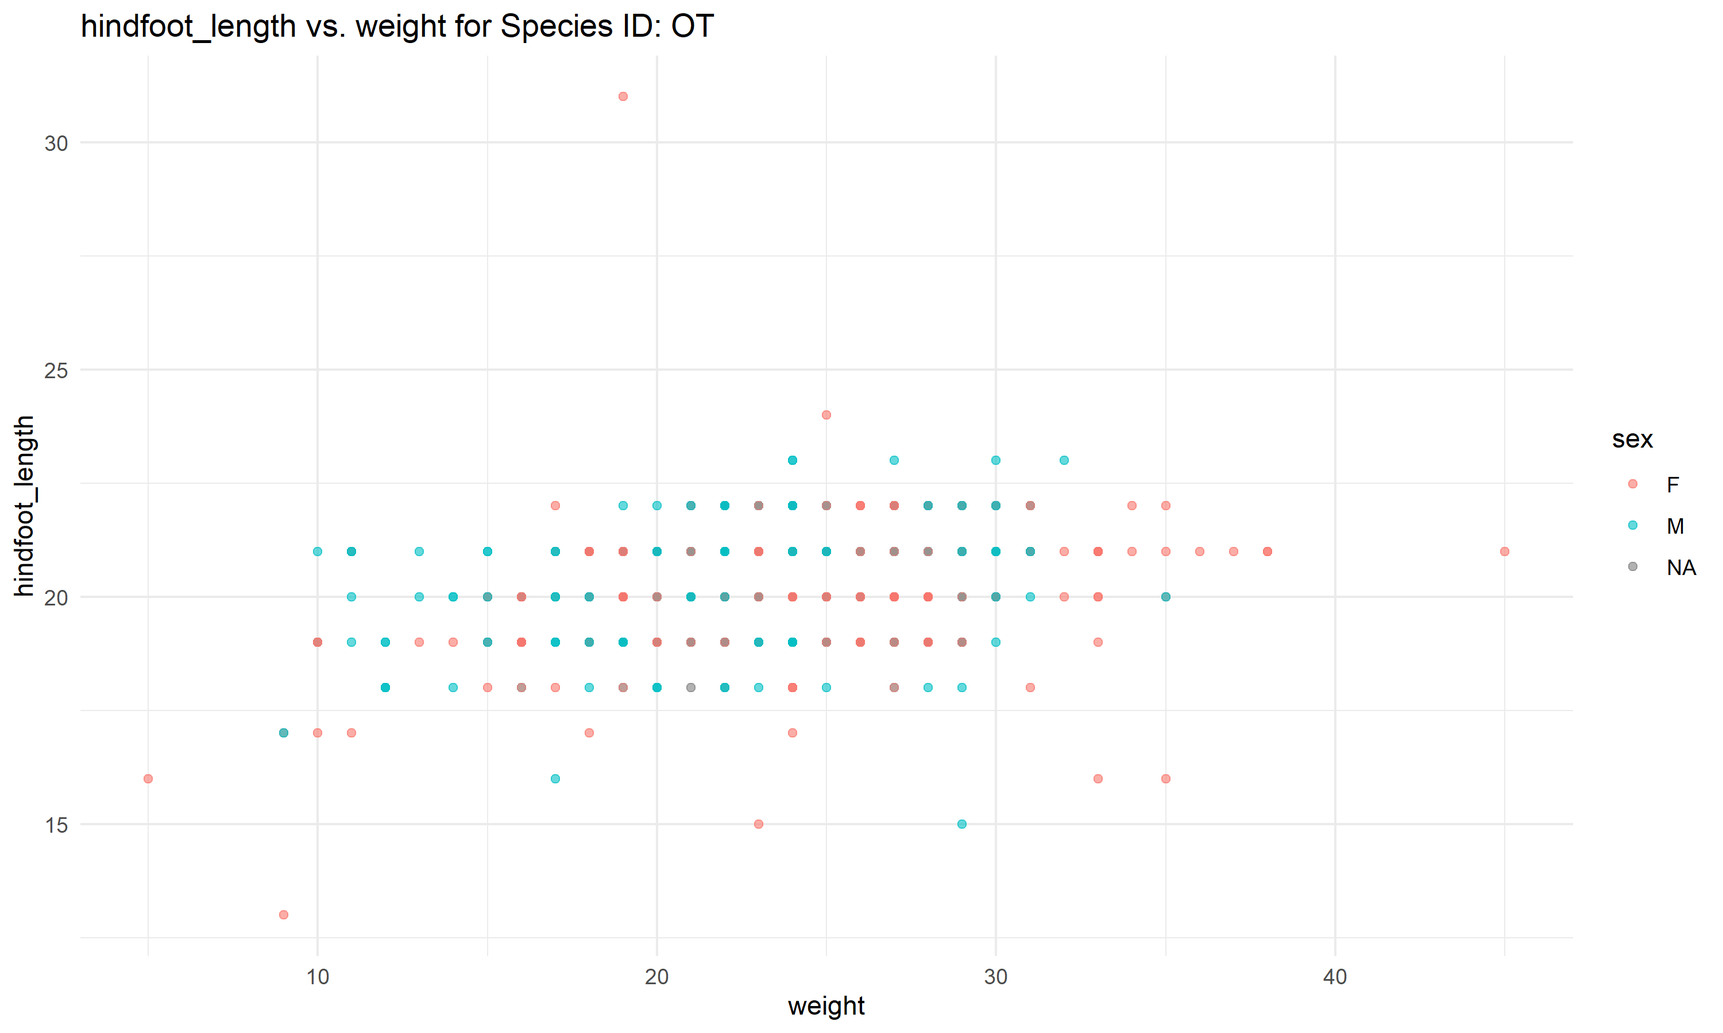
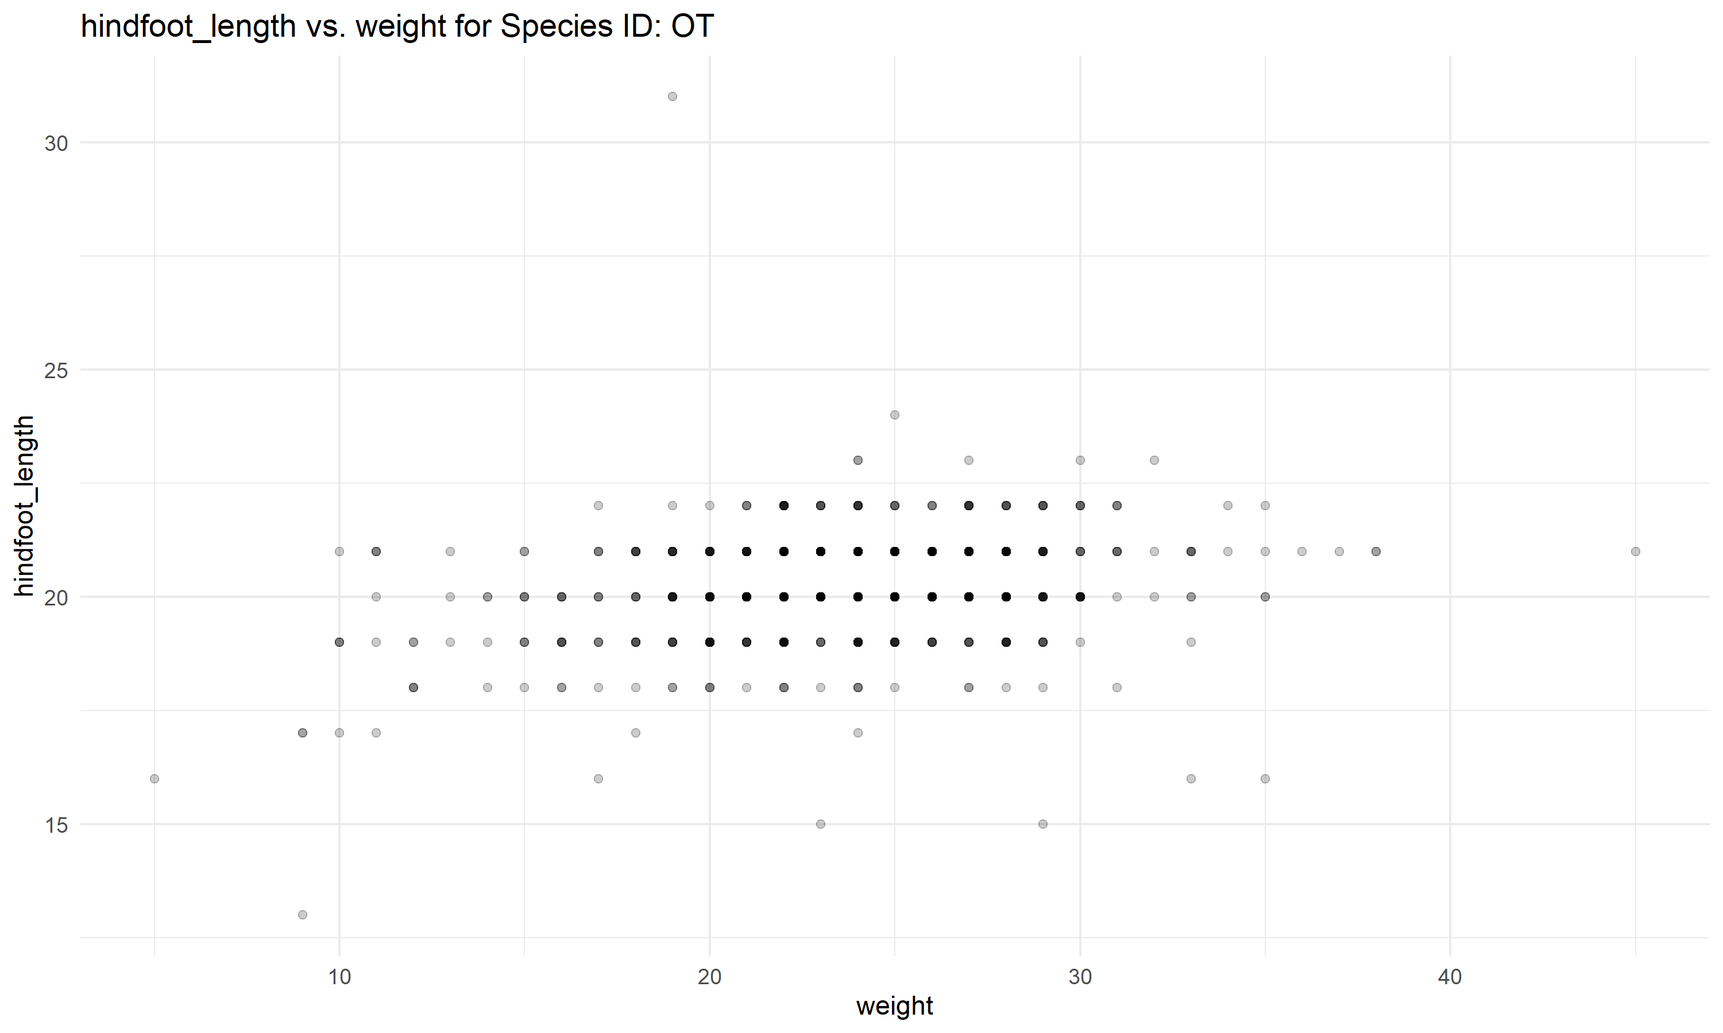
Tweak plots, add boxplot

diff --git a/docs/03_code.html b/docs/03_code.html
@@ -224,25 +224,66 @@ pre > code.sourceCode > span > a:first-child::before { text-decoration: underlin
 </div>
 <p>Let’s read in a dataset split into separate files. Instead of reading in each file separately, we can use <code>readr::read_csv()</code> to read them all in at once, bind them together into a single dataframe, and add a new column containing the filename of the data source. The dataset we’re working with contains measurements taken from mammals captured in the Chihuahuan desert. It is split into 4 separate <code>.csv</code> files based on time periods the measurements were recorded within.</p>
 <div class="cell">
-<div class="sourceCode cell-code" id="cb2"><pre class="sourceCode r code-with-copy"><code class="sourceCode r"><span id="cb2-1"><a href="#cb2-1" aria-hidden="true" tabindex="-1"></a>files <span class="ot">&lt;-</span> <span class="fu">list.files</span>(<span class="at">path =</span> <span class="st">"data_raw"</span>, <span class="at">pattern =</span> <span class="st">"</span><span class="sc">\\</span><span class="st">.csv"</span>, <span class="at">full.names =</span> <span class="cn">TRUE</span>)</span>
+<div class="sourceCode cell-code" id="cb2"><pre class="sourceCode r code-with-copy"><code class="sourceCode r"><span id="cb2-1"><a href="#cb2-1" aria-hidden="true" tabindex="-1"></a><span class="co"># Combine data from different collection periods</span></span>
 <span id="cb2-2"><a href="#cb2-2" aria-hidden="true" tabindex="-1"></a></span>
-<span id="cb2-3"><a href="#cb2-3" aria-hidden="true" tabindex="-1"></a>surveys <span class="ot">&lt;-</span> <span class="fu">read_csv</span>(files, <span class="at">id =</span> <span class="st">"source"</span>)</span></code><button title="Copy to Clipboard" class="code-copy-button"><i class="bi"></i></button></pre></div>
+<span id="cb2-3"><a href="#cb2-3" aria-hidden="true" tabindex="-1"></a>files <span class="ot">&lt;-</span> <span class="fu">list.files</span>(<span class="at">path =</span> <span class="st">"data_raw"</span>, </span>
+<span id="cb2-4"><a href="#cb2-4" aria-hidden="true" tabindex="-1"></a>                    <span class="at">pattern =</span> <span class="st">"</span><span class="sc">\\</span><span class="st">.csv"</span>, </span>
+<span id="cb2-5"><a href="#cb2-5" aria-hidden="true" tabindex="-1"></a>                    <span class="at">full.names =</span> <span class="cn">TRUE</span>)</span>
+<span id="cb2-6"><a href="#cb2-6" aria-hidden="true" tabindex="-1"></a></span>
+<span id="cb2-7"><a href="#cb2-7" aria-hidden="true" tabindex="-1"></a>surveys <span class="ot">&lt;-</span> <span class="fu">read_csv</span>(files, <span class="at">id =</span> <span class="st">"source"</span>)</span></code><button title="Copy to Clipboard" class="code-copy-button"><i class="bi"></i></button></pre></div>
 </div>
-<p>Let’s say we wanted to create a separate scatterplot for each species showing hindfoot length vs weight. Even if we’re only interested in species codes with at least 100 valid observations, that’s still 11 plots.</p>
+<p>Let’s take a quick look at the mean <code>hindfoot_length</code> and <code>weight</code> for each species.</p>
 <div class="cell">
-<div class="sourceCode cell-code" id="cb3"><pre class="sourceCode r code-with-copy"><code class="sourceCode r"><span id="cb3-1"><a href="#cb3-1" aria-hidden="true" tabindex="-1"></a>valid_species <span class="ot">&lt;-</span></span>
-<span id="cb3-2"><a href="#cb3-2" aria-hidden="true" tabindex="-1"></a>  surveys <span class="sc">|&gt;</span></span>
-<span id="cb3-3"><a href="#cb3-3" aria-hidden="true" tabindex="-1"></a>  <span class="fu">drop_na</span>(<span class="fu">all_of</span>(<span class="fu">c</span>(<span class="st">"weight"</span>, <span class="st">"hindfoot_length"</span>))) <span class="sc">|&gt;</span> </span>
-<span id="cb3-4"><a href="#cb3-4" aria-hidden="true" tabindex="-1"></a>  <span class="fu">count</span>(species_id) <span class="sc">|&gt;</span> </span>
-<span id="cb3-5"><a href="#cb3-5" aria-hidden="true" tabindex="-1"></a>  <span class="fu">filter</span>(n <span class="sc">&gt;=</span> <span class="dv">100</span>) <span class="sc">|&gt;</span> </span>
-<span id="cb3-6"><a href="#cb3-6" aria-hidden="true" tabindex="-1"></a>  <span class="fu">pull</span>(species_id)</span></code><button title="Copy to Clipboard" class="code-copy-button"><i class="bi"></i></button></pre></div>
+<div class="sourceCode cell-code" id="cb3"><pre class="sourceCode r code-with-copy"><code class="sourceCode r"><span id="cb3-1"><a href="#cb3-1" aria-hidden="true" tabindex="-1"></a>surveys <span class="sc">|&gt;</span> </span>
+<span id="cb3-2"><a href="#cb3-2" aria-hidden="true" tabindex="-1"></a>  <span class="fu">group_by</span>(species_id) <span class="sc">|&gt;</span> </span>
+<span id="cb3-3"><a href="#cb3-3" aria-hidden="true" tabindex="-1"></a>  <span class="fu">summarise</span>(<span class="fu">across</span>(<span class="fu">c</span>(hindfoot_length, weight), mean, <span class="at">na.rm =</span> <span class="cn">TRUE</span>)) <span class="sc">|&gt;</span> </span>
+<span id="cb3-4"><a href="#cb3-4" aria-hidden="true" tabindex="-1"></a>  <span class="fu">na.omit</span>()</span></code><button title="Copy to Clipboard" class="code-copy-button"><i class="bi"></i></button></pre></div>
+<div class="cell-output cell-output-stderr">
+<pre><code>Warning: There was 1 warning in `summarise()`.
+ℹ In argument: `across(c(hindfoot_length, weight), mean, na.rm = TRUE)`.
+ℹ In group 1: `species_id = "AB"`.
+Caused by warning:
+! The `...` argument of `across()` is deprecated as of dplyr 1.1.0.
+Supply arguments directly to `.fns` through an anonymous function instead.
+
+  # Previously
+  across(a:b, mean, na.rm = TRUE)
+
+  # Now
+  across(a:b, \(x) mean(x, na.rm = TRUE))</code></pre>
 </div>
-<p>Rather than write out the same code 15 times, this is a good time to write our own function. If we encapsulate all the plotting steps in a function, we can then use {purrr} to apply the function over the species and create the plots.</p>
+<div class="cell-output cell-output-stdout">
+<pre><code># A tibble: 17 × 3
+   species_id hindfoot_length weight
+   &lt;chr&gt;                &lt;dbl&gt;  &lt;dbl&gt;
+ 1 BA                    13     7   
+ 2 DM                    36.0  42.5 
+ 3 DO                    35.4  48.9 
+ 4 DS                    50.0 120.  
+ 5 NL                    32.4 158.  
+ 6 OL                    20.6  32.6 
+ 7 OT                    20.2  23.8 
+ 8 OX                    19.1  21   
+ 9 PE                    20.2  21.7 
+10 PF                    15.5   7.09
+11 PH                    26.1  30.7 
+12 PM                    20.4  21.6 
+13 PP                    21.7  16.3 
+14 RF                    17.4  13.4 
+15 RM                    16.4  10.3 
+16 SF                    29    54.8 
+17 SH                    28.9  75.0 </code></pre>
+</div>
+</div>
+<p>To understand how <code>hindfoot_length</code> varies based on the plot type the animal was captured in let’s use a boxplot.</p>
 <div class="cell">
-<div class="sourceCode cell-code" id="cb4"><pre class="sourceCode r code-with-copy"><code class="sourceCode r"><span id="cb4-1"><a href="#cb4-1" aria-hidden="true" tabindex="-1"></a><span class="co"># Create an example of a plot</span></span>
-<span id="cb4-2"><a href="#cb4-2" aria-hidden="true" tabindex="-1"></a><span class="fu">ggplot</span>(surveys, <span class="fu">aes</span>(<span class="at">x =</span> weight, <span class="at">y =</span> hindfoot_length, <span class="at">colour =</span> sex)) <span class="sc">+</span></span>
-<span id="cb4-3"><a href="#cb4-3" aria-hidden="true" tabindex="-1"></a>  <span class="fu">geom_point</span>() <span class="sc">+</span></span>
-<span id="cb4-4"><a href="#cb4-4" aria-hidden="true" tabindex="-1"></a>  <span class="fu">theme_minimal</span>()</span></code><button title="Copy to Clipboard" class="code-copy-button"><i class="bi"></i></button></pre></div>
+<div class="sourceCode cell-code" id="cb6"><pre class="sourceCode r code-with-copy"><code class="sourceCode r"><span id="cb6-1"><a href="#cb6-1" aria-hidden="true" tabindex="-1"></a><span class="fu">ggplot</span>(<span class="at">data =</span> surveys, <span class="fu">aes</span>(<span class="at">x =</span> plot_type, <span class="at">y =</span> hindfoot_length)) <span class="sc">+</span></span>
+<span id="cb6-2"><a href="#cb6-2" aria-hidden="true" tabindex="-1"></a>  <span class="fu">geom_boxplot</span>() <span class="sc">+</span></span>
+<span id="cb6-3"><a href="#cb6-3" aria-hidden="true" tabindex="-1"></a>  <span class="fu">theme_bw</span>()</span></code><button title="Copy to Clipboard" class="code-copy-button"><i class="bi"></i></button></pre></div>
+<div class="cell-output cell-output-stderr">
+<pre><code>Warning: Removed 2733 rows containing non-finite outside the scale range
+(`stat_boxplot()`).</code></pre>
+</div>
 <div class="cell-output-display">
 <div>
 <figure class="figure">
@@ -251,34 +292,105 @@ pre > code.sourceCode > span > a:first-child::before { text-decoration: underlin
 </div>
 </div>
 </div>
+<p>Let’s say we wanted to create a separate scatterplot for each species showing hindfoot length vs weight. Even if we’re only interested in species codes with at least 100 valid observations, that’s still 11 plots.</p>
 <div class="cell">
-<div class="sourceCode cell-code" id="cb5"><pre class="sourceCode r code-with-copy"><code class="sourceCode r"><span id="cb5-1"><a href="#cb5-1" aria-hidden="true" tabindex="-1"></a>plot_species <span class="ot">&lt;-</span> <span class="cf">function</span>(data, x_var, y_var, colour, species) {</span>
-<span id="cb5-2"><a href="#cb5-2" aria-hidden="true" tabindex="-1"></a></span>
-<span id="cb5-3"><a href="#cb5-3" aria-hidden="true" tabindex="-1"></a>  filtered_data <span class="ot">&lt;-</span> </span>
-<span id="cb5-4"><a href="#cb5-4" aria-hidden="true" tabindex="-1"></a>    data <span class="sc">|&gt;</span> </span>
-<span id="cb5-5"><a href="#cb5-5" aria-hidden="true" tabindex="-1"></a>    <span class="fu">filter</span>(species_id <span class="sc">==</span> {{ species }})</span>
-<span id="cb5-6"><a href="#cb5-6" aria-hidden="true" tabindex="-1"></a>  </span>
-<span id="cb5-7"><a href="#cb5-7" aria-hidden="true" tabindex="-1"></a>  plot_title <span class="ot">&lt;-</span> <span class="fu">paste0</span>(y_var, <span class="st">" vs. "</span>, x_var, <span class="st">" for Species ID: "</span>, species)</span>
-<span id="cb5-8"><a href="#cb5-8" aria-hidden="true" tabindex="-1"></a>  </span>
-<span id="cb5-9"><a href="#cb5-9" aria-hidden="true" tabindex="-1"></a>  plot <span class="ot">&lt;-</span> </span>
-<span id="cb5-10"><a href="#cb5-10" aria-hidden="true" tabindex="-1"></a>    filtered_data <span class="sc">|&gt;</span> </span>
-<span id="cb5-11"><a href="#cb5-11" aria-hidden="true" tabindex="-1"></a>    <span class="fu">ggplot</span>(<span class="fu">aes</span>(<span class="at">x =</span> .data[[x_var]], <span class="at">y =</span> .data[[y_var]], <span class="at">colour =</span> .data[[colour]])) <span class="sc">+</span></span>
-<span id="cb5-12"><a href="#cb5-12" aria-hidden="true" tabindex="-1"></a>    <span class="fu">geom_point</span>(<span class="at">alpha =</span> <span class="fl">0.6</span>) <span class="sc">+</span></span>
-<span id="cb5-13"><a href="#cb5-13" aria-hidden="true" tabindex="-1"></a>    <span class="fu">theme_minimal</span>() <span class="sc">+</span></span>
-<span id="cb5-14"><a href="#cb5-14" aria-hidden="true" tabindex="-1"></a>    <span class="fu">ggtitle</span>(plot_title)</span>
-<span id="cb5-15"><a href="#cb5-15" aria-hidden="true" tabindex="-1"></a>  </span>
-<span id="cb5-16"><a href="#cb5-16" aria-hidden="true" tabindex="-1"></a>  save_path <span class="ot">&lt;-</span> <span class="fu">paste0</span>(<span class="st">"figures/"</span>, species, <span class="st">"_"</span>, x_var, <span class="st">"_vs_"</span>, y_var, <span class="st">".png"</span>)</span>
-<span id="cb5-17"><a href="#cb5-17" aria-hidden="true" tabindex="-1"></a>  </span>
-<span id="cb5-18"><a href="#cb5-18" aria-hidden="true" tabindex="-1"></a>  <span class="fu">ggsave</span>(save_path, <span class="at">plot =</span> plot, <span class="at">width =</span> <span class="dv">10</span>, <span class="at">height =</span> <span class="dv">6</span>, <span class="at">units =</span> <span class="st">"in"</span>)</span>
-<span id="cb5-19"><a href="#cb5-19" aria-hidden="true" tabindex="-1"></a>}</span>
-<span id="cb5-20"><a href="#cb5-20" aria-hidden="true" tabindex="-1"></a></span>
-<span id="cb5-21"><a href="#cb5-21" aria-hidden="true" tabindex="-1"></a><span class="fu">walk</span>(valid_species, <span class="sc">~</span> <span class="fu">plot_species</span>(</span>
-<span id="cb5-22"><a href="#cb5-22" aria-hidden="true" tabindex="-1"></a>  <span class="at">data =</span> surveys,</span>
-<span id="cb5-23"><a href="#cb5-23" aria-hidden="true" tabindex="-1"></a>  <span class="at">x_var =</span> <span class="st">"weight"</span>,</span>
-<span id="cb5-24"><a href="#cb5-24" aria-hidden="true" tabindex="-1"></a>  <span class="at">y_var =</span> <span class="st">"hindfoot_length"</span>,</span>
-<span id="cb5-25"><a href="#cb5-25" aria-hidden="true" tabindex="-1"></a>  <span class="at">colour =</span> <span class="st">"sex"</span>,</span>
-<span id="cb5-26"><a href="#cb5-26" aria-hidden="true" tabindex="-1"></a>  <span class="at">species =</span> .x </span>
-<span id="cb5-27"><a href="#cb5-27" aria-hidden="true" tabindex="-1"></a>))</span></code><button title="Copy to Clipboard" class="code-copy-button"><i class="bi"></i></button></pre></div>
+<div class="sourceCode cell-code" id="cb8"><pre class="sourceCode r code-with-copy"><code class="sourceCode r"><span id="cb8-1"><a href="#cb8-1" aria-hidden="true" tabindex="-1"></a>valid_species <span class="ot">&lt;-</span></span>
+<span id="cb8-2"><a href="#cb8-2" aria-hidden="true" tabindex="-1"></a>  surveys <span class="sc">|&gt;</span></span>
+<span id="cb8-3"><a href="#cb8-3" aria-hidden="true" tabindex="-1"></a>  <span class="fu">drop_na</span>(<span class="fu">all_of</span>(<span class="fu">c</span>(<span class="st">"weight"</span>, <span class="st">"hindfoot_length"</span>))) <span class="sc">|&gt;</span> </span>
+<span id="cb8-4"><a href="#cb8-4" aria-hidden="true" tabindex="-1"></a>  <span class="fu">count</span>(species_id) <span class="sc">|&gt;</span> </span>
+<span id="cb8-5"><a href="#cb8-5" aria-hidden="true" tabindex="-1"></a>  <span class="fu">filter</span>(n <span class="sc">&gt;=</span> <span class="dv">100</span>) <span class="sc">|&gt;</span> </span>
+<span id="cb8-6"><a href="#cb8-6" aria-hidden="true" tabindex="-1"></a>  <span class="fu">pull</span>(species_id)</span></code><button title="Copy to Clipboard" class="code-copy-button"><i class="bi"></i></button></pre></div>
+</div>
+<p>Let’s first create a basic plot to show what we’re trying to produce.</p>
+<div class="cell">
+<div class="sourceCode cell-code" id="cb9"><pre class="sourceCode r code-with-copy"><code class="sourceCode r"><span id="cb9-1"><a href="#cb9-1" aria-hidden="true" tabindex="-1"></a><span class="co"># Create an example of a plot</span></span>
+<span id="cb9-2"><a href="#cb9-2" aria-hidden="true" tabindex="-1"></a></span>
+<span id="cb9-3"><a href="#cb9-3" aria-hidden="true" tabindex="-1"></a><span class="fu">ggplot</span>(surveys, <span class="fu">aes</span>(<span class="at">x =</span> weight, <span class="at">y =</span> hindfoot_length)) <span class="sc">+</span></span>
+<span id="cb9-4"><a href="#cb9-4" aria-hidden="true" tabindex="-1"></a>  <span class="fu">geom_point</span>(<span class="at">alpha =</span> <span class="fl">0.2</span>) <span class="sc">+</span></span>
+<span id="cb9-5"><a href="#cb9-5" aria-hidden="true" tabindex="-1"></a>  <span class="fu">theme_minimal</span>()</span></code><button title="Copy to Clipboard" class="code-copy-button"><i class="bi"></i></button></pre></div>
+<div class="cell-output-display">
+<div>
+<figure class="figure">
+<p><img src="03_code_files/figure-html/unnamed-chunk-6-1.png" class="img-fluid figure-img" width="672"></p>
+</figure>
+</div>
+</div>
+</div>
+<p>Rather than write out the same code 15 times, this is a good time to write our own function. If we encapsulate all the plotting steps in a function, we can then use {purrr} to apply the function over the species and create the plots.</p>
+<div class="cell">
+<div class="sourceCode cell-code" id="cb10"><pre class="sourceCode r code-with-copy"><code class="sourceCode r"><span id="cb10-1"><a href="#cb10-1" aria-hidden="true" tabindex="-1"></a>plot_species <span class="ot">&lt;-</span> <span class="cf">function</span>(data, x_var, y_var, species) {</span>
+<span id="cb10-2"><a href="#cb10-2" aria-hidden="true" tabindex="-1"></a>  </span>
+<span id="cb10-3"><a href="#cb10-3" aria-hidden="true" tabindex="-1"></a>  <span class="co"># Check that the data contains the species or provide a useful error message</span></span>
+<span id="cb10-4"><a href="#cb10-4" aria-hidden="true" tabindex="-1"></a>  <span class="cf">if</span> (<span class="sc">!</span>(species <span class="sc">%in%</span> data<span class="sc">$</span>species_id)) {</span>
+<span id="cb10-5"><a href="#cb10-5" aria-hidden="true" tabindex="-1"></a>    <span class="fu">stop</span>(<span class="fu">paste0</span>(<span class="st">"Error: Species ID '"</span>, species, <span class="st">"' not found in the dataset."</span>))</span>
+<span id="cb10-6"><a href="#cb10-6" aria-hidden="true" tabindex="-1"></a>  }</span>
+<span id="cb10-7"><a href="#cb10-7" aria-hidden="true" tabindex="-1"></a>  </span>
+<span id="cb10-8"><a href="#cb10-8" aria-hidden="true" tabindex="-1"></a>  <span class="co"># Use .data[[]] so we can pass strings as arguments to use in plot titles and save paths</span></span>
+<span id="cb10-9"><a href="#cb10-9" aria-hidden="true" tabindex="-1"></a>  plots <span class="ot">&lt;-</span> </span>
+<span id="cb10-10"><a href="#cb10-10" aria-hidden="true" tabindex="-1"></a>    data <span class="sc">|&gt;</span> </span>
+<span id="cb10-11"><a href="#cb10-11" aria-hidden="true" tabindex="-1"></a>    <span class="fu">filter</span>(species_id <span class="sc">==</span> .env<span class="sc">$</span>species) <span class="sc">|&gt;</span> </span>
+<span id="cb10-12"><a href="#cb10-12" aria-hidden="true" tabindex="-1"></a>    <span class="fu">ggplot</span>(<span class="fu">aes</span>(<span class="at">x =</span> .data[[x_var]], </span>
+<span id="cb10-13"><a href="#cb10-13" aria-hidden="true" tabindex="-1"></a>               <span class="at">y =</span> .data[[y_var]])) <span class="sc">+</span></span>
+<span id="cb10-14"><a href="#cb10-14" aria-hidden="true" tabindex="-1"></a>    <span class="fu">geom_point</span>(<span class="at">alpha =</span> <span class="fl">0.2</span>) <span class="sc">+</span></span>
+<span id="cb10-15"><a href="#cb10-15" aria-hidden="true" tabindex="-1"></a>    <span class="fu">theme_minimal</span>() <span class="sc">+</span></span>
+<span id="cb10-16"><a href="#cb10-16" aria-hidden="true" tabindex="-1"></a>    <span class="fu">ggtitle</span>(<span class="fu">paste0</span>(y_var, <span class="st">" vs. "</span>, x_var, <span class="st">" for Species ID: "</span>, species))</span>
+<span id="cb10-17"><a href="#cb10-17" aria-hidden="true" tabindex="-1"></a>  </span>
+<span id="cb10-18"><a href="#cb10-18" aria-hidden="true" tabindex="-1"></a>  <span class="fu">ggsave</span>(<span class="fu">paste0</span>(<span class="st">"figures/"</span>, species, <span class="st">"_"</span>, x_var, <span class="st">"_vs_"</span>, y_var, <span class="st">".png"</span>), </span>
+<span id="cb10-19"><a href="#cb10-19" aria-hidden="true" tabindex="-1"></a>         <span class="at">plot =</span> plots, <span class="at">width =</span> <span class="dv">10</span>, <span class="at">height =</span> <span class="dv">6</span>)</span>
+<span id="cb10-20"><a href="#cb10-20" aria-hidden="true" tabindex="-1"></a>}</span>
+<span id="cb10-21"><a href="#cb10-21" aria-hidden="true" tabindex="-1"></a></span>
+<span id="cb10-22"><a href="#cb10-22" aria-hidden="true" tabindex="-1"></a><span class="co"># purrr::walk iterates over valid_species to create and save the plots</span></span>
+<span id="cb10-23"><a href="#cb10-23" aria-hidden="true" tabindex="-1"></a></span>
+<span id="cb10-24"><a href="#cb10-24" aria-hidden="true" tabindex="-1"></a><span class="fu">walk</span>(valid_species, <span class="sc">~</span> <span class="fu">plot_species</span>(</span>
+<span id="cb10-25"><a href="#cb10-25" aria-hidden="true" tabindex="-1"></a>  <span class="at">data =</span> surveys,</span>
+<span id="cb10-26"><a href="#cb10-26" aria-hidden="true" tabindex="-1"></a>  <span class="at">x_var =</span> <span class="st">"weight"</span>,            </span>
+<span id="cb10-27"><a href="#cb10-27" aria-hidden="true" tabindex="-1"></a>  <span class="at">y_var =</span> <span class="st">"hindfoot_length"</span>,   </span>
+<span id="cb10-28"><a href="#cb10-28" aria-hidden="true" tabindex="-1"></a>  <span class="at">species =</span> .x </span>
+<span id="cb10-29"><a href="#cb10-29" aria-hidden="true" tabindex="-1"></a>))</span></code><button title="Copy to Clipboard" class="code-copy-button"><i class="bi"></i></button></pre></div>
+<div class="cell-output cell-output-stderr">
+<pre><code>Warning: Removed 674 rows containing missing values or values outside the scale range
+(`geom_point()`).</code></pre>
+</div>
+<div class="cell-output cell-output-stderr">
+<pre><code>Warning: Removed 153 rows containing missing values or values outside the scale range
+(`geom_point()`).</code></pre>
+</div>
+<div class="cell-output cell-output-stderr">
+<pre><code>Warning: Removed 469 rows containing missing values or values outside the scale range
+(`geom_point()`).</code></pre>
+</div>
+<div class="cell-output cell-output-stderr">
+<pre><code>Warning: Removed 167 rows containing missing values or values outside the scale range
+(`geom_point()`).</code></pre>
+</div>
+<div class="cell-output cell-output-stderr">
+<pre><code>Warning: Removed 87 rows containing missing values or values outside the scale range
+(`geom_point()`).</code></pre>
+</div>
+<div class="cell-output cell-output-stderr">
+<pre><code>Warning: Removed 106 rows containing missing values or values outside the scale range
+(`geom_point()`).</code></pre>
+</div>
+<div class="cell-output cell-output-stderr">
+<pre><code>Warning: Removed 78 rows containing missing values or values outside the scale range
+(`geom_point()`).</code></pre>
+</div>
+<div class="cell-output cell-output-stderr">
+<pre><code>Warning: Removed 94 rows containing missing values or values outside the scale range
+(`geom_point()`).</code></pre>
+</div>
+<div class="cell-output cell-output-stderr">
+<pre><code>Warning: Removed 42 rows containing missing values or values outside the scale range
+(`geom_point()`).</code></pre>
+</div>
+<div class="cell-output cell-output-stderr">
+<pre><code>Warning: Removed 41 rows containing missing values or values outside the scale range
+(`geom_point()`).</code></pre>
+</div>
+<div class="cell-output cell-output-stderr">
+<pre><code>Warning: Removed 122 rows containing missing values or values outside the scale range
+(`geom_point()`).</code></pre>
+</div>
 </div>
 
 
